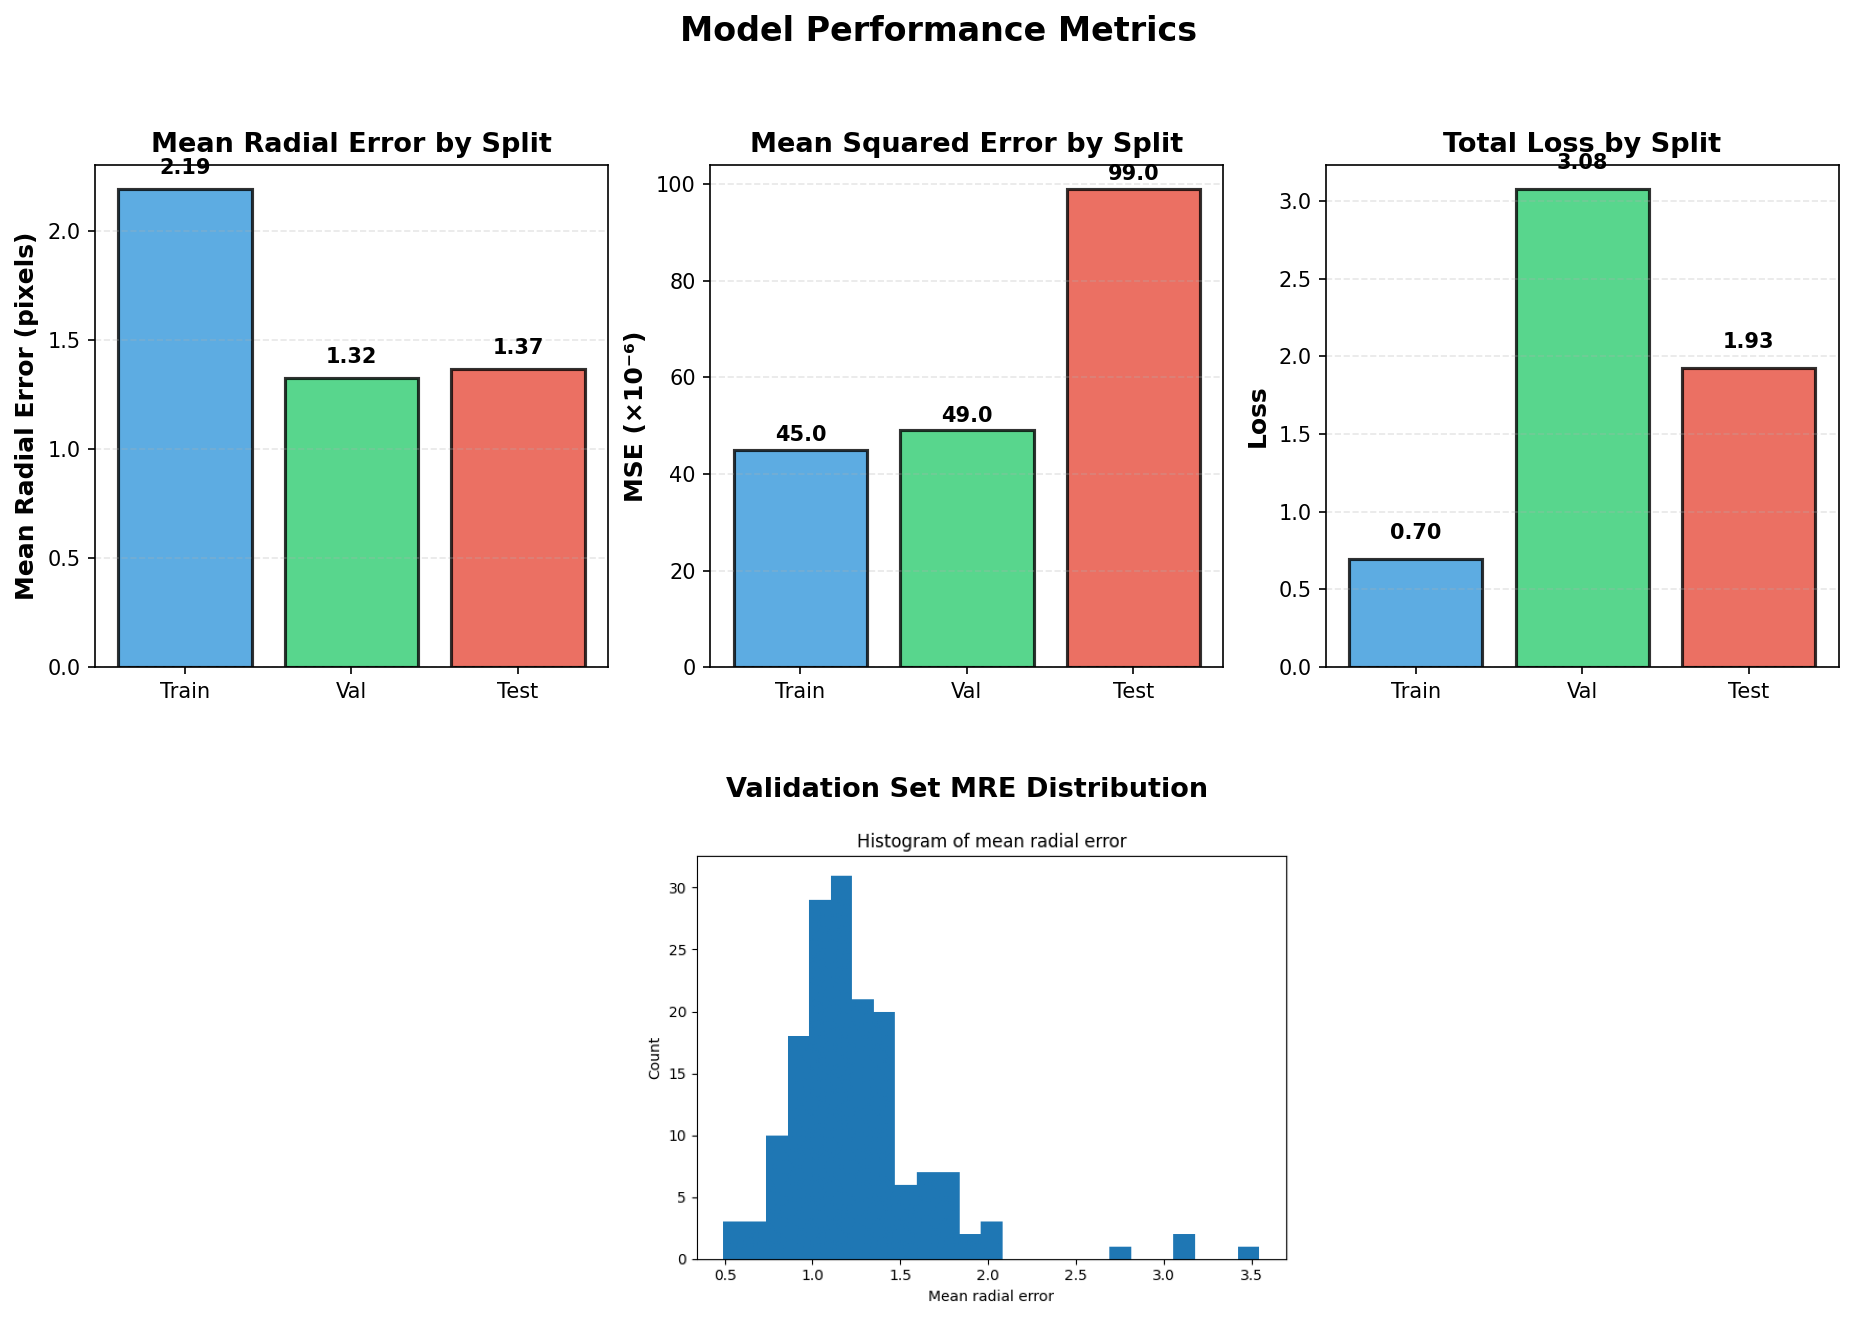
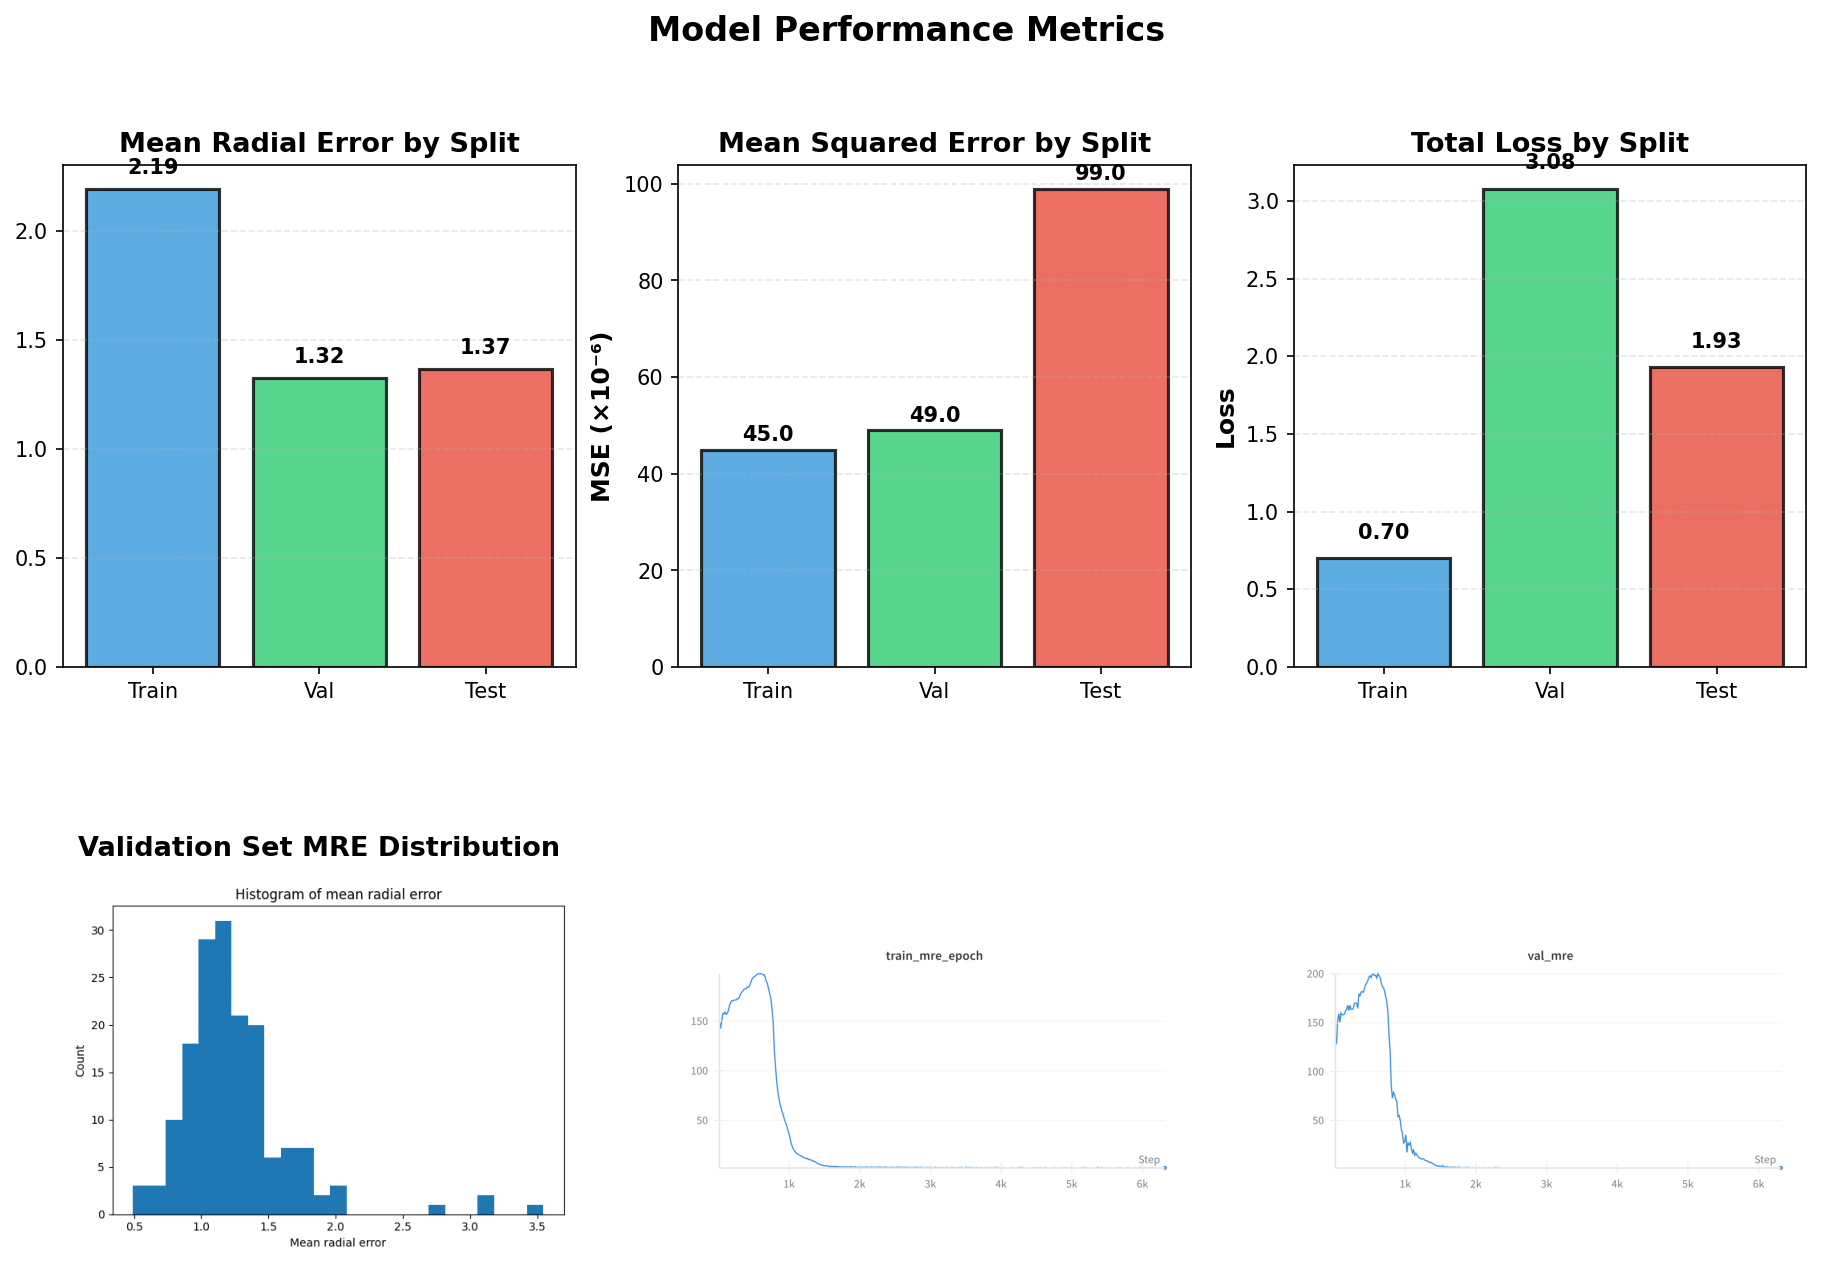
Bug fix and training metrics added

diff --git a/docs/generate_blog_figures.py b/docs/generate_blog_figures.py
@@ -251,7 +251,6 @@ colors_mre = ["#3498db", "#2ecc71", "#e74c3c"]
 bars1 = ax.bar(
     splits, mre_values, color=colors_mre, alpha=0.8, edgecolor="black", linewidth=1.5
 )
-ax.set_ylabel("Mean Radial Error (pixels)", fontsize=12, fontweight="bold")
 ax.set_title("Mean Radial Error by Split", fontsize=13, fontweight="bold")
 ax.grid(axis="y", alpha=0.3, linestyle="--")
 for bar, val in zip(bars1, mre_values):
@@ -317,7 +316,7 @@ histogram_path = (
     "docs/images/media_images_mean_radial_error_hist_val_set_model-urt7dgbp_v47.png"
 )
 if os.path.exists(histogram_path):
-    ax = fig.add_subplot(gs[1, :])
+    ax = fig.add_subplot(gs[1, 0])
     histogram_img = plt.imread(histogram_path)
     ax.imshow(histogram_img)
     ax.axis("off")
@@ -326,6 +325,31 @@ if os.path.exists(histogram_path):
     )
 else:
     print(f"   ⚠ Warning: Histogram not found at {histogram_path}")
+
+
+train_mre_path = (
+    "docs/images/train_mre.png"
+)
+if os.path.exists(train_mre_path):
+    ax = fig.add_subplot(gs[1, 1])
+    train_mre = plt.imread(train_mre_path)
+    ax.imshow(train_mre)
+    ax.axis("off")
+else:
+    print(f"   ⚠ Warning: train_mre_path not found at {train_mre_path}")
+
+
+val_mre_path = (
+    "docs/images/val_mre.png"
+)
+if os.path.exists(val_mre_path):
+    ax = fig.add_subplot(gs[1, 2])
+    val_mre = plt.imread(val_mre_path)
+    ax.imshow(val_mre)
+    ax.axis("off")
+else:
+    print(f"   ⚠ Warning: val_mre_path not found at {val_mre_path}")
+
 
 plt.suptitle("Model Performance Metrics", fontsize=16, fontweight="bold", y=0.98)
 plt.savefig("docs/images/model_performance.png", dpi=150, bbox_inches="tight")

diff --git a/docs/machine-learning-strategy.md b/docs/machine-learning-strategy.md
@@ -32,7 +32,7 @@ The challenge is to automatically locate 13 specific points (landmarks) on three
 - Limited training data (~800 images)
 - Need for clinical-grade accuracy (low Mean Radial Error)
 
-![Cervical Vertebrae Landmarks](images/../docs/images/six_bone_age_maturity_stages.png)
+![Cervical Vertebrae Landmarks](images/six_bone_age_maturity_stages.png)
 *Figure 1: The six bone age maturity stages based on cervical vertebral morphology (McNamara & Franchi method)*
 
 ## Machine Learning Architecture
@@ -691,4 +691,4 @@ This work builds on the clinical research of McNamara and Franchi, and leverages
 
 **About the Author**: This project demonstrates practical expertise in computer vision, deep learning, medical imaging, and production ML systems. The techniques shown here are applicable to many medical imaging problems beyond bone age assessment.
 
-*If you found this blog post helpful, consider starring the [GitHub repository](images/https://github.com/saeedmehrang/cvmt) and sharing with others interested in medical AI!*
+*If you found this blog post helpful, consider starring the [GitHub repository](https://github.com/saeedmehrang/cvmt) and sharing with others interested in medical AI!*
